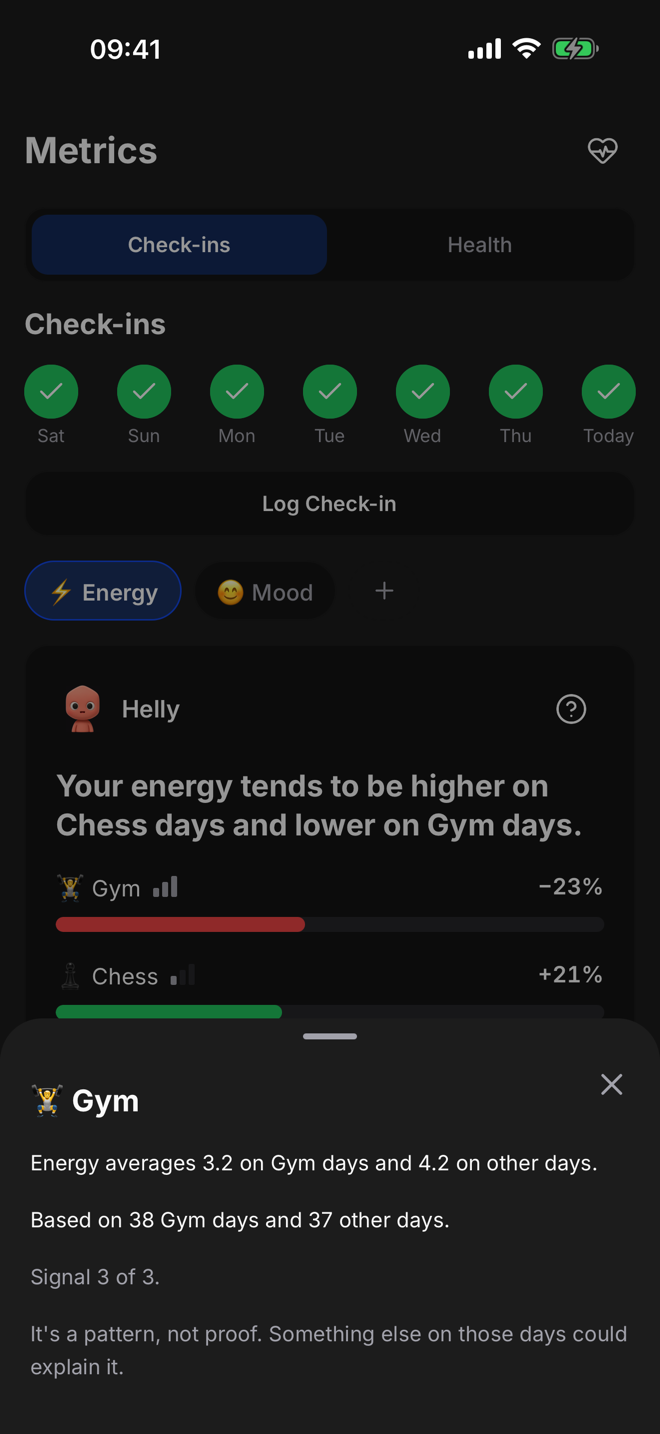
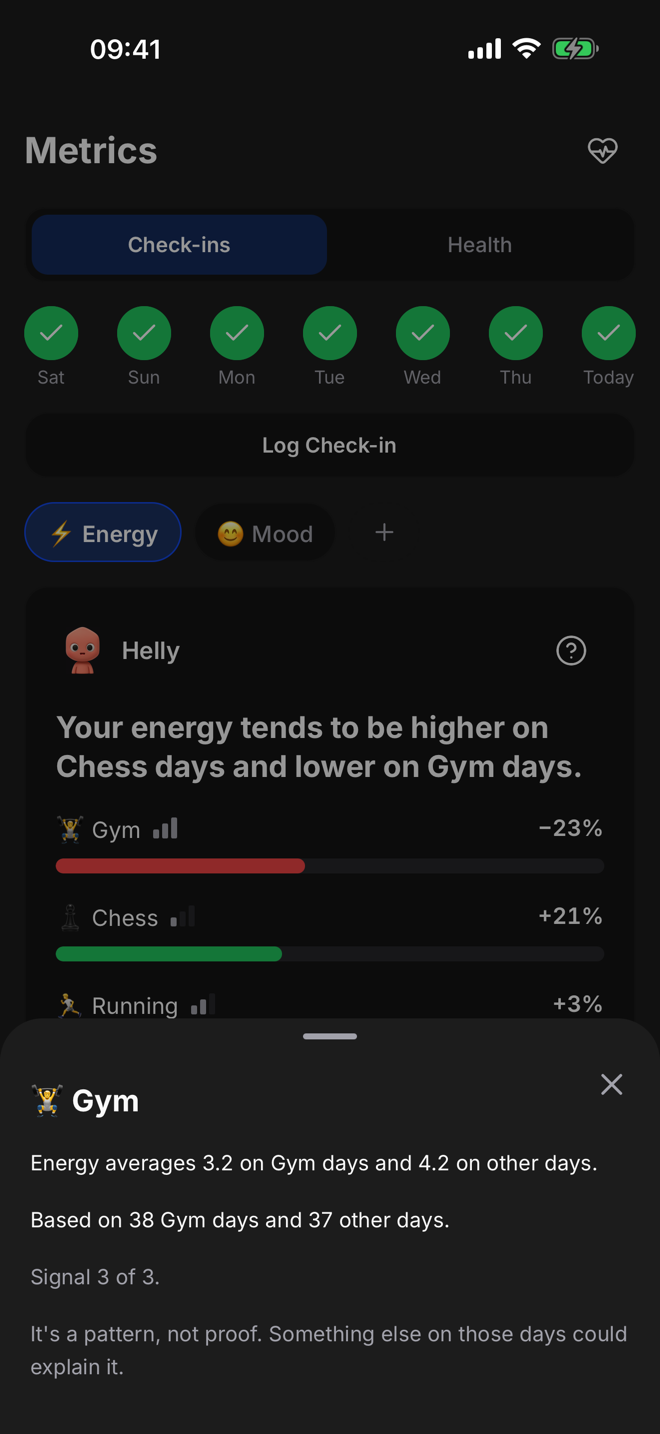
Metrics: fold extra too-early rows, keep the metric pills on one row, drop the repeated heading
A real account has many one-off activities. Past the first, their too-early
rows now fold into one line ("6 more need more days") that opens on tap, in
the app and on the web. The metric pills scroll sideways instead of wrapping,
and the Check-ins heading under the Check-ins tab is gone, so the insights
card fits the first screen. The fixture server can load a private local
export (E2E_METRICS_FILE) to capture the page with a person's own check-ins.

diff --git a/apps/frontend-expo/src/features/metrics/MetricInsights.tsx b/apps/frontend-expo/src/features/metrics/MetricInsights.tsx
@@ -1,7 +1,7 @@
 import { useEffect, useRef, useState } from "react";
 import { Animated, Easing, Pressable, View } from "react-native";
 import { Image } from "expo-image";
-import { CircleHelp } from "lucide-react-native";
+import { ChevronDown, CircleHelp } from "lucide-react-native";
 import { Reveal } from "@/components/reveal/Reveal";
 import { Copy, IconButton, Panel, useColors } from "@/components/ui";
 import { Text } from "@/components/typography/Text";
@@ -20,6 +20,7 @@ import {
   activityDetail,
   countUp,
   headline,
+  moreWaiting,
   percent,
   signalLine,
   waitingForActivity,
@@ -32,6 +33,9 @@ import type {
   SleepDetailProps,
 } from "./types";
 
+// Too-early rows shown before the rest fold into one line. An account with
+// many one-off activities would otherwise bury its findings under them.
+const WAITING_SHOWN = 1;
 // A bar is full at a 50% difference; larger ones are rare on a 1-5 scale.
 const FULL_BAR = 0.5;
 // Ratings run 1-5, so each sleep band is drawn against that fixed scale.
@@ -242,7 +246,14 @@ export function MetricInsights({
   const personality = useCurrentUser().data?.coachPersonality;
   const coach = coachIdentity(personality);
   const [detail, setDetail] = useState<FindingDetail>();
+  const [allWaiting, setAllWaiting] = useState(false);
   const counting = checkIns < 7;
+  // Findings arrive with the too-early rows last.
+  const measured = findings.filter((row) => row.difference !== null).length;
+  const folded = allWaiting
+    ? 0
+    : Math.max(0, findings.length - measured - WAITING_SHOWN);
+  const shown = findings.slice(0, findings.length - folded);
   const heading =
     detail?.kind === "activity"
       ? `${detail.finding.activity.emoji || "📊"} ${detail.finding.activity.title}`
@@ -309,7 +320,7 @@ export function MetricInsights({
                 onPress={() => setDetail({ kind: "sleep" })}
               />
             )}
-            {findings.map((finding) => (
+            {shown.map((finding) => (
               <FindingRow
                 key={`${metric.id}-${finding.activity.id}`}
                 testID={`finding-${finding.activity.id}`}
@@ -322,6 +333,26 @@ export function MetricInsights({
                 onPress={() => setDetail({ kind: "activity", finding })}
               />
             ))}
+            {folded > 0 && (
+              <Pressable
+                testID="findings-more"
+                accessibilityRole="button"
+                accessibilityLabel={moreWaiting(folded)}
+                onPress={() => setAllWaiting(true)}
+                hitSlop={8}
+                style={({ pressed }) => ({
+                  flexDirection: "row",
+                  alignItems: "center",
+                  gap: 4,
+                  opacity: pressed ? 0.6 : 1,
+                })}
+              >
+                <Text style={{ fontSize: 13, color: c.muted }}>
+                  {moreWaiting(folded)}
+                </Text>
+                <ChevronDown size={14} color={c.muted} />
+              </Pressable>
+            )}
           </View>
         )
       )}

diff --git a/apps/frontend-vite/src/components/metrics/MetricInsightsCard.tsx b/apps/frontend-vite/src/components/metrics/MetricInsightsCard.tsx
@@ -17,11 +17,12 @@ import {
   activityDetail,
   countUp,
   headline,
+  moreWaiting,
   signalLine,
   waitingForActivity,
 } from "@/lib/metricWords";
 import type { Activity, ActivityEntry, MetricEntry } from "@tsw/prisma";
-import { HelpCircle } from "lucide-react";
+import { ChevronDown, HelpCircle } from "lucide-react";
 import { useEffect, useMemo, useRef, useState } from "react";
 
 interface MetricInsightsCardProps {
@@ -41,6 +42,10 @@ interface MetricInsightsCardProps {
 type FindingDetail =
   | { kind: "activity"; finding: ActivityFinding }
   | { kind: "help" };
+
+// Too-early rows shown before the rest fold into one line. An account with
+// many one-off activities would otherwise bury its findings under them.
+const WAITING_SHOWN = 1;
 
 const activityLabel = (finding: ActivityFinding) =>
   `${finding.activity.emoji || "📊"} ${finding.activity.title}`;
@@ -84,6 +89,13 @@ export function MetricInsightsCard({
       exampleFindings ?? activityFindings(entries, activities, activityEntries),
     [exampleFindings, entries, activities, activityEntries]
   );
+  const [allWaiting, setAllWaiting] = useState(false);
+  // Findings arrive with the too-early rows last.
+  const measured = findings.filter((row) => row.difference !== null).length;
+  const folded = allWaiting
+    ? 0
+    : Math.max(0, findings.length - measured - WAITING_SHOWN);
+  const shown = findings.slice(0, findings.length - folded);
   // Under seven rated check-ins the card only counts up.
   const checkIns = validRatings(entries).length;
   const counting = !exampleFindings && checkIns < MINIMUM_ENTRIES;
@@ -139,7 +151,7 @@ export function MetricInsightsCard({
         ) : (
           findings.length > 0 && (
             <div className="space-y-4">
-              {findings.map((finding, index) => (
+              {shown.map((finding, index) => (
                 <FindingRow
                   key={finding.activity.id}
                   label={activityLabel(finding)}
@@ -153,6 +165,16 @@ export function MetricInsightsCard({
                   animationDelay={index * 100}
                 />
               ))}
+              {folded > 0 && (
+                <button
+                  type="button"
+                  className="flex items-center gap-1 text-[13px] text-muted-foreground"
+                  onClick={() => setAllWaiting(true)}
+                >
+                  {moreWaiting(folded)}
+                  <ChevronDown className="h-3.5 w-3.5" />
+                </button>
+              )}
             </div>
           )
         )}

diff --git a/apps/frontend-expo/e2e/server.ts b/apps/frontend-expo/e2e/server.ts
@@ -284,6 +284,10 @@ const server = http.createServer(async (req, res) => {
       { title: "Running", emoji: "🏃", on: (i: number) => i % 3 === 0 && i < 60 },
       { title: "Chess", emoji: "♟", on: (i: number) => i % 5 === 1 && i < 40 },
       { title: "Sauna", emoji: "🧖", on: (i: number) => i === 5 || i === 21 },
+      // One day each: with Sauna these make four too-early rows, more than the card shows at once.
+      { title: "Yoga", emoji: "🧘", on: (i: number) => i === 9 },
+      { title: "Hike", emoji: "🥾", on: (i: number) => i === 17 },
+      { title: "Reading", emoji: "📖", on: (i: number) => i === 30 },
     ];
     const today = new Date();
     const daysAgo = (i: number, hour: number) => new Date(today.getFullYear(), today.getMonth(), today.getDate() - i, hour);
@@ -305,6 +309,19 @@ const server = http.createServer(async (req, res) => {
       })),
     );
     send({ok:true}); return;
+  }
+  // A person's own check-ins and activities from a private local export, so the Metrics page can be captured with
+  // real findings. The file stays outside the repository; set E2E_METRICS_FILE to its absolute path.
+  if (path === "/__metrics-file") {
+    const file = process.env.E2E_METRICS_FILE;
+    if (!file || !file.startsWith("/")) { send({ ok: false, error: "Set E2E_METRICS_FILE to an absolute path." }, 400); return; }
+    const data = JSON.parse(readFileSync(file, "utf8"));
+    Object.assign(state.user, { themeMode: body.theme ?? "LIGHT", ...(data.user?.coachPersonality ? { coachPersonality: data.user.coachPersonality } : {}) });
+    state.metrics = data.metrics;
+    state.metricEntries = data.metricEntries;
+    state.activities = data.activities.filter((activity: any) => !activity.deletedAt).map((activity: any) => ({ ...state.activities[0], ...activity }));
+    state.entries = data.entries.map((entry: any) => ({ ...state.entries[0], ...entry }));
+    send({ ok: true }); return;
   }
   if (path === "/__background.png") {
     res.writeHead(200, { "Content-Type": "image/png" });

diff --git a/apps/frontend-expo/e2e/polish.spec.ts b/apps/frontend-expo/e2e/polish.spec.ts
@@ -44,6 +44,11 @@ for (const theme of ["DARK", "LIGHT"])
       "🧖 Sauna: 3 more days, signal 0 of 3",
     ])
       await expect(insights.getByRole("button", { name: label })).toBeVisible();
+    // Four activities are too early. One shows, and the rest fold into one line
+    // until it is tapped, so findings are not buried under one-off activities.
+    await expect(insights.getByRole("button", { name: /Yoga/ })).toHaveCount(0);
+    await expect(insights.getByRole("button", { name: /Hike/ })).toHaveCount(0);
+    await expect(insights.getByRole("button", { name: /Reading/ })).toHaveCount(0);
     // No statistics vocabulary and no tier labels on the screen itself.
     for (const word of [
       "Confident",
@@ -55,6 +60,9 @@ for (const theme of ["DARK", "LIGHT"])
     ])
       await expect(insights.getByText(word)).toHaveCount(0);
     // Too few days: the row is faded and its bar stays empty.
+    await expect(page.getByTestId("findings-more")).toHaveText(
+      "3 more need more days",
+    );
     const sauna = page.getByTestId("finding-polish-3");
     await expect(sauna).toHaveCSS("opacity", "0.45");
     await expect(sauna.getByRole("progressbar")).toHaveAttribute(
@@ -91,6 +99,11 @@ for (const theme of ["DARK", "LIGHT"])
       path: `test-results/metrics-page-polish-${theme}.png`,
       fullPage: true,
     });
+    await page.getByTestId("findings-more").click();
+    await expect(page.getByTestId("findings-more")).toHaveCount(0);
+    await expect(insights.getByRole("button", { name: /Yoga: 4 more days/ })).toBeVisible();
+    await expect(insights.getByRole("button", { name: /Hike: 4 more days/ })).toBeVisible();
+    await expect(insights.getByRole("button", { name: /Reading: 4 more days/ })).toBeVisible();
     await sauna.click();
     await expect(
       page.getByText("2 Sauna days with a check-in so far."),

diff --git a/apps/frontend-expo/src/features/metrics/MetricsScreen.tsx b/apps/frontend-expo/src/features/metrics/MetricsScreen.tsx
@@ -2,7 +2,7 @@ import { Reveal } from "@/components/reveal/Reveal";
 import { MetricInsights } from "./MetricInsights";
 import { useRefresh } from "@/data/useRefresh";
 import { useEffect, useMemo, useState } from "react";
-import { Pressable, View } from "react-native";
+import { Pressable, ScrollView, View } from "react-native";
 import { router } from "expo-router";
 import { Text } from "@/components/typography/Text";
 import { Check, Plus, HeartPulse } from "lucide-react-native";
@@ -179,7 +179,6 @@ export default function MetricsScreen() {
       {view === "health" ? <HealthOverview /> : (
         <>
       <Reveal id="metrics-checkins" style={{ gap: 16 }}>
-        <Heading>Check-ins</Heading>
         <View
           style={{
             flexDirection: "row",
@@ -244,11 +243,13 @@ export default function MetricsScreen() {
           <Status error={start.error} />
         </Panel>
       )}
-      <Reveal
-        id="metrics-selector"
-        delay={50}
-        style={{ flexDirection: "row", flexWrap: "wrap", gap: 8 }}
-      >
+      <Reveal id="metrics-selector" delay={50}>
+        {/* One row that scrolls sideways: three metric names do not fit a phone. */}
+        <ScrollView
+          horizontal
+          showsHorizontalScrollIndicator={false}
+          contentContainerStyle={{ gap: 8 }}
+        >
         {metrics.data?.map((m) => (
           <Pressable
             key={m.id}
@@ -283,6 +284,7 @@ export default function MetricsScreen() {
             <Plus size={18} color={c.muted} />
           </Pressable>
         )}
+        </ScrollView>
       </Reveal>
       {metric && (
         <View key={metric.id} style={{ gap: 16 }}>

diff --git a/apps/frontend-vite/src/lib/metricWords.ts b/apps/frontend-vite/src/lib/metricWords.ts
@@ -63,6 +63,10 @@ export function headline(metricTitle: string, findings: ActivityFinding[]) {
   return `Log what you do on the days you check in and I'll tell you which habits go with higher ${metric}.`;
 }
 
+// The line that stands in for the too-early rows the card does not show yet.
+export const moreWaiting = (count: number) =>
+  `${count} more ${count === 1 ? "needs" : "need"} more days`;
+
 export const countUp = (checkIns: number) =>
   `${checkIns} of 7 check-ins. ${7 - checkIns} more and I can start looking for patterns.`;
 

diff --git a/apps/frontend-expo/tests/metric-findings.test.ts b/apps/frontend-expo/tests/metric-findings.test.ts
@@ -8,6 +8,7 @@ import {
   activityDetail,
   countUp,
   headline,
+  moreWaiting,
   percent,
   signalLine,
   trendLine,
@@ -216,6 +217,8 @@ test("numbers and details read as plain words", () => {
     "1 Gym day with a check-in so far.",
     "4 more days and this row gets a number.",
   ]);
+  assert.equal(moreWaiting(1), "1 more needs more days");
+  assert.equal(moreWaiting(5), "5 more need more days");
   assert.equal(
     countUp(4),
     "4 of 7 check-ins. 3 more and I can start looking for patterns.",

diff --git a/apps/frontend-expo/tests/metric-findings-web.test.ts b/apps/frontend-expo/tests/metric-findings-web.test.ts
@@ -70,6 +70,7 @@ test("the web app and the iPhone app find the same things in the same days", () 
 test("the web app and the iPhone app use the same sentences", () => {
   assert.equal(webWords.CAVEAT, words.CAVEAT);
   assert.equal(webWords.countUp(4), words.countUp(4));
+  assert.equal(webWords.moreWaiting(3), words.moreWaiting(3));
   for (const value of [0.184, -0.21, 0.004])
     assert.equal(webWords.percent(value), words.percent(value));
   for (const trend of [-12, -3.6, 1, 4, 25, null])

diff --git a/apps/frontend-expo/src/features/metrics/words.ts b/apps/frontend-expo/src/features/metrics/words.ts
@@ -79,6 +79,10 @@ export function headline(
   return `Log what you do on the days you check in and I'll tell you which habits go with higher ${metric}.`;
 }
 
+// The line that stands in for the too-early rows the card does not show yet.
+export const moreWaiting = (count: number) =>
+  `${count} more ${count === 1 ? "needs" : "need"} more days`;
+
 export const countUp = (checkIns: number) =>
   `${checkIns} of 7 check-ins. ${7 - checkIns} more and I can start looking for patterns.`;
 
